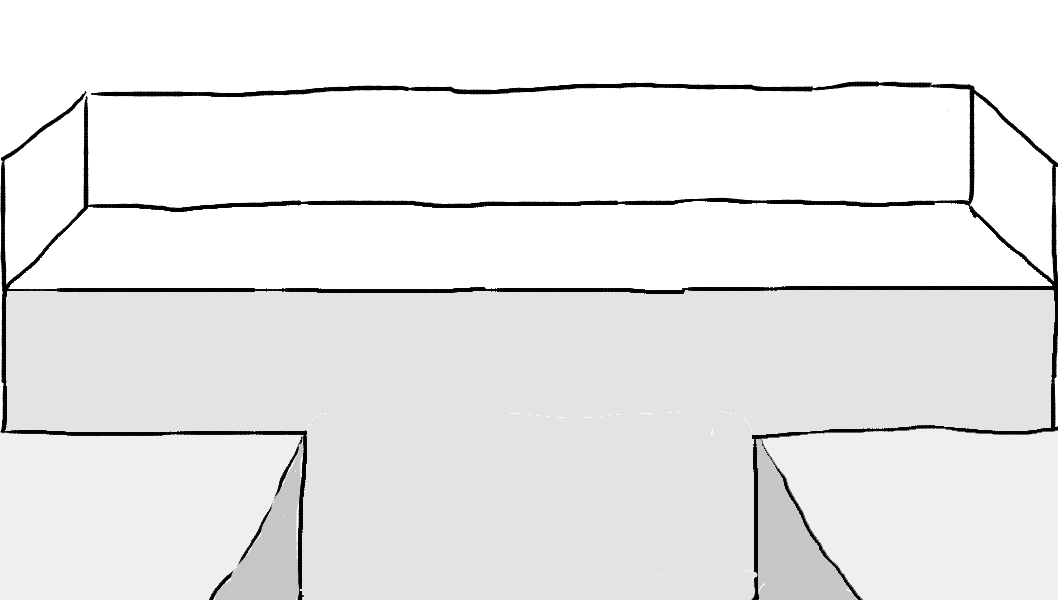
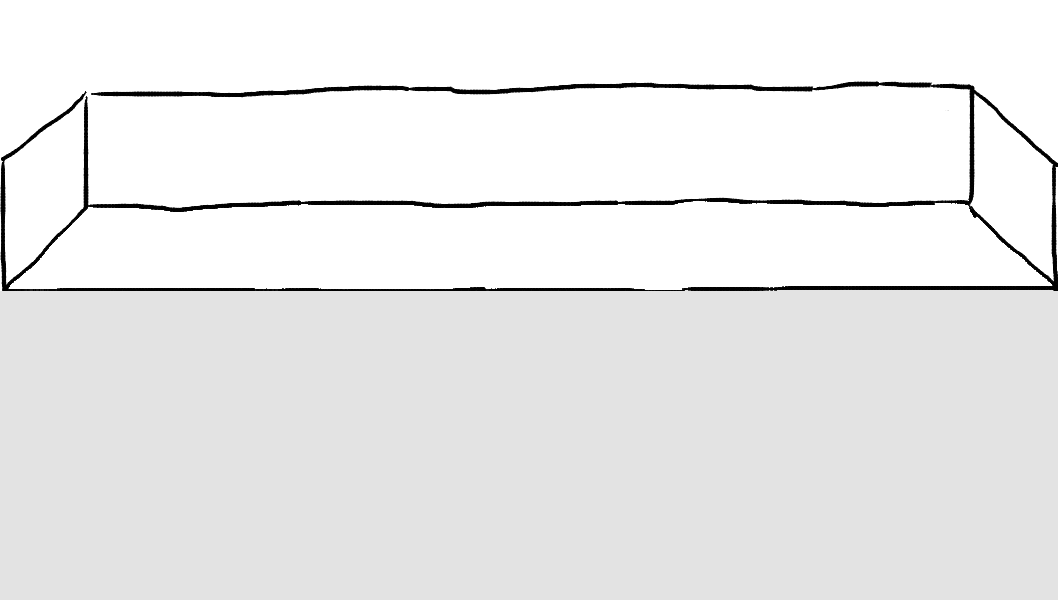
Muffin batter

diff --git a/src/main/resources/static/js/GameBakeryView.js b/src/main/resources/static/js/GameBakeryView.js
@@ -1,10 +1,11 @@
 var bakeryViewElements = new Array();
 var muffinList = new Array();
 var muffinDropZone;
+var muffinTinGroup;
 
 // pistachio, double chocolate, chocolate chip, banana nut, triple berry, bran 
 
-function Muffin(x, y, img){
+function MuffinEl(x, y, img){
     this.x = x;
     this.y = y;
     this.img = img;
@@ -57,15 +58,37 @@ BlueRoom.Game.prototype.createBakeryView= function () {
     bakeryViewElements.push(berryText);
     bakeryViewElements.push(branText);
 
-
+    muffinTinGroup = this.game.add.group();
     var oven = this.add.sprite(this.game.width/2, 310, 'oven');
     oven.anchor.setTo(0.5, 0);
-    var batterMenu = this.add.sprite(60, 350, 'batterMenu');
+    //var batterMenu = this.add.sprite(60, 350, 'batterMenu');
     var muffinTin = this.add.sprite(this.game.width/2, 463, 'muffinTin');
     muffinTin.anchor.setTo(0.5, 0);
-    bakeryViewElements.push(batterMenu);
+    //bakeryViewElements.push(batterMenu);
     bakeryViewElements.push(oven);
     bakeryViewElements.push(muffinTin);
+
+    this.setUpBatterDropZone(413, 475, 'batterDropZone');
+    this.setUpBatterDropZone(476, 475, 'batterDropZone');
+    this.setUpBatterDropZone(539, 475, 'batterDropZone');
+    this.setUpBatterDropZone(603, 475, 'batterDropZone');
+
+    this.setUpBatterDropZone(407, 510, 'batterDropZone');
+    this.setUpBatterDropZone(474, 510, 'batterDropZone');
+    this.setUpBatterDropZone(539, 510, 'batterDropZone');
+    this.setUpBatterDropZone(608, 510, 'batterDropZone');
+
+    this.setUpBatterDropZone(399, 547, 'batterDropZone');
+    this.setUpBatterDropZone(473, 547, 'batterDropZone');
+    this.setUpBatterDropZone(542, 547, 'batterDropZone');
+    this.setUpBatterDropZone(612, 547, 'batterDropZone');
+
+    this.setUpMuffinBatter(260, 350, 'pistachioBatter');
+    this.setUpMuffinBatter(260, 390, 'doubleChocBatter');
+    this.setUpMuffinBatter(260, 430, 'chocChipBatter');
+    this.setUpMuffinBatter(260, 470, 'tripleBerryBatter');
+    this.setUpMuffinBatter(260, 510, 'bananaNutBatter');
+    this.setUpMuffinBatter(260, 550, 'branBatter');
 
     this.setUpMuffin(85, 140, 'pistachio');
     this.setUpMuffin(245, 140, 'doubleChoc');
@@ -77,13 +100,56 @@ BlueRoom.Game.prototype.createBakeryView= function () {
 
 };
 
+BlueRoom.Game.prototype.setUpBatterDropZone = function(x, y, img){
+    var hole = this.add.sprite(x, y, img);
+    muffinTinGroup.add(hole);
+    bakeryViewElements.push(hole);
+}
+
+BlueRoom.Game.prototype.setUpMuffinBatter = function(x, y, img){
+    var staticMuffinBatter = this.add.sprite(x, y, img);
+    var m = new MuffinEl(x, y, img);
+    muffinList[img] = m;
+    bakeryViewElements.push(staticMuffinBatter);
+    this.makeMovableMuffinBatter(x, y, img);
+}
+
+BlueRoom.Game.prototype.makeMovableMuffinBatter = function(x, y, img){
+    var muffBat = this.add.sprite(x, y, img);
+    bakeryViewElements.push(muffBat);
+    this.setUpMuffinBatterInteractions(muffBat);
+}
+
+BlueRoom.Game.prototype.setUpMuffinBatterInteractions =function(sprite){
+    sprite.inputEnabled = true;
+    sprite.input.enableDrag();
+    sprite.events.onInputOver.add(this.onMuffinOver, this);
+    sprite.events.onInputOut.add(this.onMuffinOut, this);
+    sprite.events.onDragStart.add(this.onMuffinDragStart, this);
+    sprite.events.onDragStop.add(this.onMuffinBatterDragStop, this);
+};
+
+BlueRoom.Game.prototype.onMuffinBatterDragStop= function(sprite, pointer) {
+    sprite.tint = 0xffffff;
+
+   if (!sprite.overlap(muffinTinGroup))
+    {
+        this.add.tween(sprite).to( { x: dragPosition.x, y: dragPosition.y }, 500, "Back.easeOut", true);
+    }
+    else{
+        sprite.inputEnabled = false;
+        var posX = muffinList[sprite.key].x
+        var posY = muffinList[sprite.key].y;
+        this.makeMovableMuffinBatter(posX, posY, sprite.key);
+    }
+};
+
 BlueRoom.Game.prototype.setUpMuffin = function(x, y, img){
     var staticMuffin = this.add.sprite(x, y, img);
-    var m = new Muffin(x, y, img);
+    var m = new MuffinEl(x, y, img);
     muffinList[img] = m;
     bakeryViewElements.push(staticMuffin);
     this.makeMovableMuffin(x, y, img);
-
 }
 
 BlueRoom.Game.prototype.makeMovableMuffin = function(x, y, img){
@@ -121,7 +187,6 @@ BlueRoom.Game.prototype.onMuffinDragStart = function(sprite, pointer) {
 };
 
 BlueRoom.Game.prototype.onMuffinDragStop= function(sprite, pointer) {
-    dragging = false;
     sprite.tint = 0xffffff;
     // sprite.body.moves = true;
     // mypointer.alpha = 0;
@@ -131,9 +196,9 @@ BlueRoom.Game.prototype.onMuffinDragStop= function(sprite, pointer) {
         this.add.tween(sprite).to( { x: dragPosition.x, y: dragPosition.y }, 500, "Back.easeOut", true);
     }
     else{
-        posX = muffinList[sprite.key].x
-        posY = muffinList[sprite.key].y;
-        this.makeMovableMuffin(posX, posY, sprite.key)
+        var posX = muffinList[sprite.key].x
+        var posY = muffinList[sprite.key].y;
+        this.makeMovableMuffin(posX, posY, sprite.key);
         sprite.x = 660;
         sprite.y = 20;
         sprite.inputEnabled = false;

diff --git a/src/main/resources/static/js/Preloader.js b/src/main/resources/static/js/Preloader.js
@@ -126,7 +126,7 @@ BlueRoom.Preloader.prototype = {
 
 
 		//BAKERY STATION
-		this.load.image('bakeryBg', 'images/bakery/bakery.png');
+		this.load.image('bakeryBg', 'images/bakery/bakery_bg.png');
 		this.load.image('muffinDropZone', 'images/bakery/muffin_drop_zone.png');
 		this.load.image('muffinPlate', 'images/bakery/plate.png');
 		this.load.image('pistachio', 'images/bakery/pistachio_muffin.png');
@@ -135,8 +135,17 @@ BlueRoom.Preloader.prototype = {
 		this.load.image('tripleBerry', 'images/bakery/triple_berry_muffin.png');
 		this.load.image('bananaNut', 'images/bakery/banana_nut_muffin.png');
 		this.load.image('bran', 'images/bakery/bran_muffin.png');
+
+		this.load.image('pistachioBatter', 'images/bakery/pistachio_batter.png');
+		this.load.image('doubleChocBatter', 'images/bakery/double_chocolate_batter.png');
+		this.load.image('chocChipBatter', 'images/bakery/chocolate_chip_batter.png');
+		this.load.image('tripleBerryBatter', 'images/bakery/triple_berry_batter.png');
+		this.load.image('bananaNutBatter', 'images/bakery/banana_nut_batter.png');
+		this.load.image('branBatter', 'images/bakery/bran_batter.png');
+
+		this.load.image('batterDropZone', 'images/bakery/batter_drop_zone.png')
 		this.load.image('batterMenu', 'images/bakery/batter_menu.png');
-		this.load.image('muffinTin', 'images/bakery/muffin_tin.png');
+		this.load.image('muffinTin', 'images/bakery/baking_tin.png');
 		this.load.image('oven', 'images/bakery/bake_oven.png');
 
 

diff --git a/src/main/resources/static/js/GameSandwichView.js b/src/main/resources/static/js/GameSandwichView.js
@@ -261,7 +261,7 @@ BlueRoom.Game.prototype.setUpInteractions =function(sprite){
     
 BlueRoom.Game.prototype.onOver= function(sprite, pointer) {
 
-    sprite.tint = 0xff7777;
+    sprite.tint = 0xcccccc;
 
 },
 
